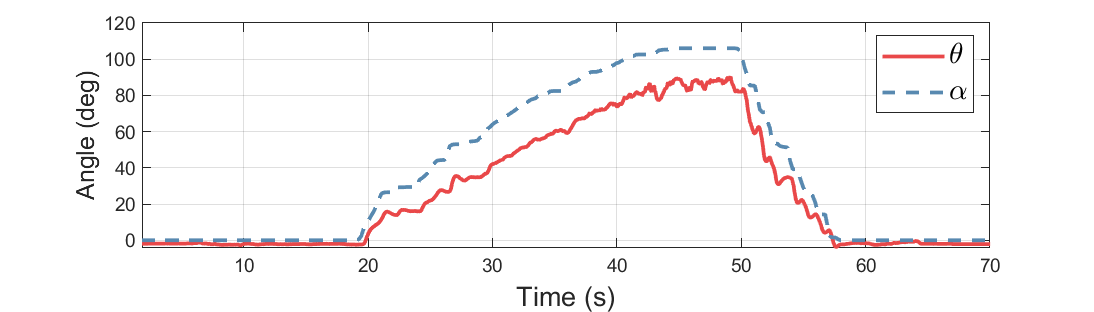
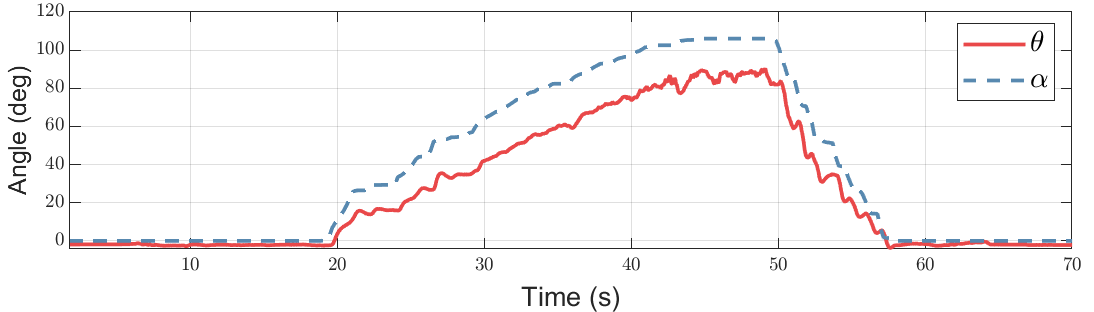
Final upload!

diff --git a/plot_line_graph.m b/plot_line_graph.m
@@ -48,6 +48,8 @@ LineColors = flipud(linecolors);
 
 %% Visualization
 fig = figure('Position', [200, 10, imgWidthSize, imgColumnSize]);
+set(gca,'LooseInset', max(get(gca,'TightInset'), 0.02))
+
 % set(AX1, 'position', [0.05 0.58 0.42 0.42])
 Y = PR;
 plot(x, Y(1,:), '-o', 'LineWidth', lw, 'MarkerSize', ms, 'Color', LineColors(1, :));
@@ -71,6 +73,8 @@ saveas(gcf, "imgs/erasor_ground_preservation.png")
 %%%%%%%%%%%%%%%%%%%
 
 fig = figure('Position', [200 + imgWidthSize, 10, imgWidthSize, imgColumnSize]);
+set(gca,'LooseInset', max(get(gca,'TightInset'), 0.02))
+
 Y = RR;
 plot(x, Y(1,:), '-o', 'LineWidth', lw, 'MarkerSize', ms, 'Color', LineColors(1, :));
 hold on;
@@ -94,6 +98,7 @@ saveas(gcf, "imgs/erasor_ground_rejection.png")
 
 %%%%%%%%%%%%%%%%%%%
 fig = figure('Position', [200 , 80 + imgColumnSize, imgWidthSize, imgColumnSize]);
+set(gca,'LooseInset', max(get(gca,'TightInset'), 0.02))
 
 Y = percentage;
 plot(x, Y(1,:), '-o', 'LineWidth', lw, 'MarkerSize', ms, 'Color', LineColors(1, :));
@@ -117,6 +122,7 @@ saveas(gcf, "imgs/erasor_ground_percentage.png")
 
 %%%%%%%%%%%%%%%%%%%
 fig = figure('Position', [200 + imgWidthSize, 80 + imgColumnSize, imgWidthSize, imgColumnSize]);
+set(gca,'LooseInset', max(get(gca,'TightInset'), 0.02))
 
 Y = REL;
 seq00 = plot(x, Y(1,:), '-o', 'LineWidth', lw, 'MarkerSize', ms, 'Color', LineColors(1, :));

diff --git a/plot_actuator_data.m b/plot_actuator_data.m
@@ -21,6 +21,8 @@ ms = 11;  % marker size
 
 %% rotor speed
 figure('Position', [0, 0, cs, rs]);
+set(gca,'LooseInset', max(get(gca,'TightInset'), 0.02))
+
 linecolors = linspecer(6, 'qualitative');
 LineColors = flipud(linecolors);
 for i=1:6
@@ -41,6 +43,8 @@ saveas(gcf, "imgs/caros_rotor_speed.png")
 %% pitch, alp
 disp("pitch alp");
 figure('Position', [0, 1.2*rs, cs, rs]);
+set(gca,'LooseInset', max(get(gca,'TightInset'), 0.02))
+
 % q=att(:,3:5);
 % q(:,4)=att(:,2);
 [r p y]=quat2angle(att(:,2:5));
@@ -63,6 +67,8 @@ saveas(gcf, "imgs/caros_pitch_alpha.png")
 disp("orientation");
 % hold off
 figure('Position', [0, 2.4*rs, cs, rs]);
+set(gca,'LooseInset', max(get(gca,'TightInset'), 0.02))
+
 [y p r]=quat2angle(att(:,2:5));
 linecolors = linspecer(3, 'qualitative');
 LineColors = flipud(linecolors);
@@ -83,6 +89,8 @@ saveas(gcf, "imgs/caros_orientation.png")
 disp("pos");
 % hold off
 figure('Position', [0, 3.6*rs, cs, rs]);
+set(gca,'LooseInset', max(get(gca,'TightInset'), 0.02))
+
 linecolors = linspecer(3, 'qualitative');
 LineColors = flipud(linecolors);
 plot(pos(:,1)*10e-7-650,pos(:,2)-0.2, 'LineWidth', lw, "Color", LineColors(1,:));

diff --git a/plot_boxplots.m b/plot_boxplots.m
@@ -6,6 +6,8 @@ clear all;
 
 %% Calculate AOA errors
 figure()
+set(gca,'LooseInset', max(get(gca,'TightInset'), 0.02))
+
 disp("Loading boxplot data... (1/2)");
 load('materials/aoa_error.mat', 'aoa_errors_list', 'xlabels');
 mu = 5; % mu takes outlier (red cross) into account
@@ -19,6 +21,8 @@ disp("Done (1/2)");
 
 %% Calculate SSA errors
 figure()
+set(gca,'LooseInset', max(get(gca,'TightInset'), 0.02))
+
 disp("Loading boxplot data... (2/2)");
 load('materials/ssa_error.mat', 'ssa_errors_list', 'xlabels');
 mu = 9; % mu takes outlier (red cross) into account

diff --git a/plot_cdf.m b/plot_cdf.m
@@ -109,7 +109,7 @@ XLabelFontSize = 12;  YLabelFontSize = 12;
 
 %% Draw cdf of alpha: 
 figure("name", "alpha");
-
+set(gca,'LooseInset', max(get(gca,'TightInset'), 0.02))
 disp("Drawing cdf of alpha...");
  
 gap = MAX_RANGE / 1000;
@@ -146,8 +146,7 @@ disp("Drawing cdf of alpha complete");
 
 %% Draw cdf of beta: 
 figure("name", "beta");
-%1. Get min-max value
-
+set(gca,'LooseInset', max(get(gca,'TightInset'), 0.02))
 MAX_RANGE = 0.05; % --------------- TO BE SET ---------------
 
 disp("Drawing cdf of beta...");

diff --git a/plot_trajectory.m b/plot_trajectory.m
@@ -13,6 +13,8 @@ NLabelFontSize = 14;  ELabelFontSize = 14;  UpLabelFontSize = 14;
 
 %% Colorization - 3D Plot
 figure("Name", '3D Trajectory')
+set(gca,'LooseInset', max(get(gca,'TightInset'), 0.02))
+
 % ---- Note that if the trajectory is too long, it doesn't work!!! ---- 
 p=plot3(Pn, Pe, Pd,  'LineWidth', linewidth);
 p.Annotation.LegendInformation.IconDisplayStyle = 'off';

diff --git a/plot_pdf.m b/plot_pdf.m
@@ -8,6 +8,7 @@ linecolors = linspecer(2, 'qualitative');
 LineColors = flipud(linecolors);
 
 figure('Position', [500, 300, 600, 360]);
+set(gca,'LooseInset', max(get(gca,'TightInset'), 0.02))
 ms = 11;
 [pd,xd] = hist(dyn.diff_percentage); plot(xd,pd/sum(pd), '-o', "MarkerSize", ms, 'LineWidth', 2.25, "Color", LineColors(1,:)); %PDF
 hold on;

diff --git a/README.md b/README.md
@@ -18,6 +18,10 @@ https://kr.mathworks.com/matlabcentral/fileexchange/42673-beautiful-and-distingu
 
 * how to set legend interpreter as latex
 
+* the method for removing unnecessary white space
+
+Add `set(gca,'LooseInset', max(get(gca,'TightInset'), 0.02))` below the figure declaration line.
+
 * tilelayout (Only applicable on latest version Matlab)
 
 All outputs are located in `imgs` folder.
